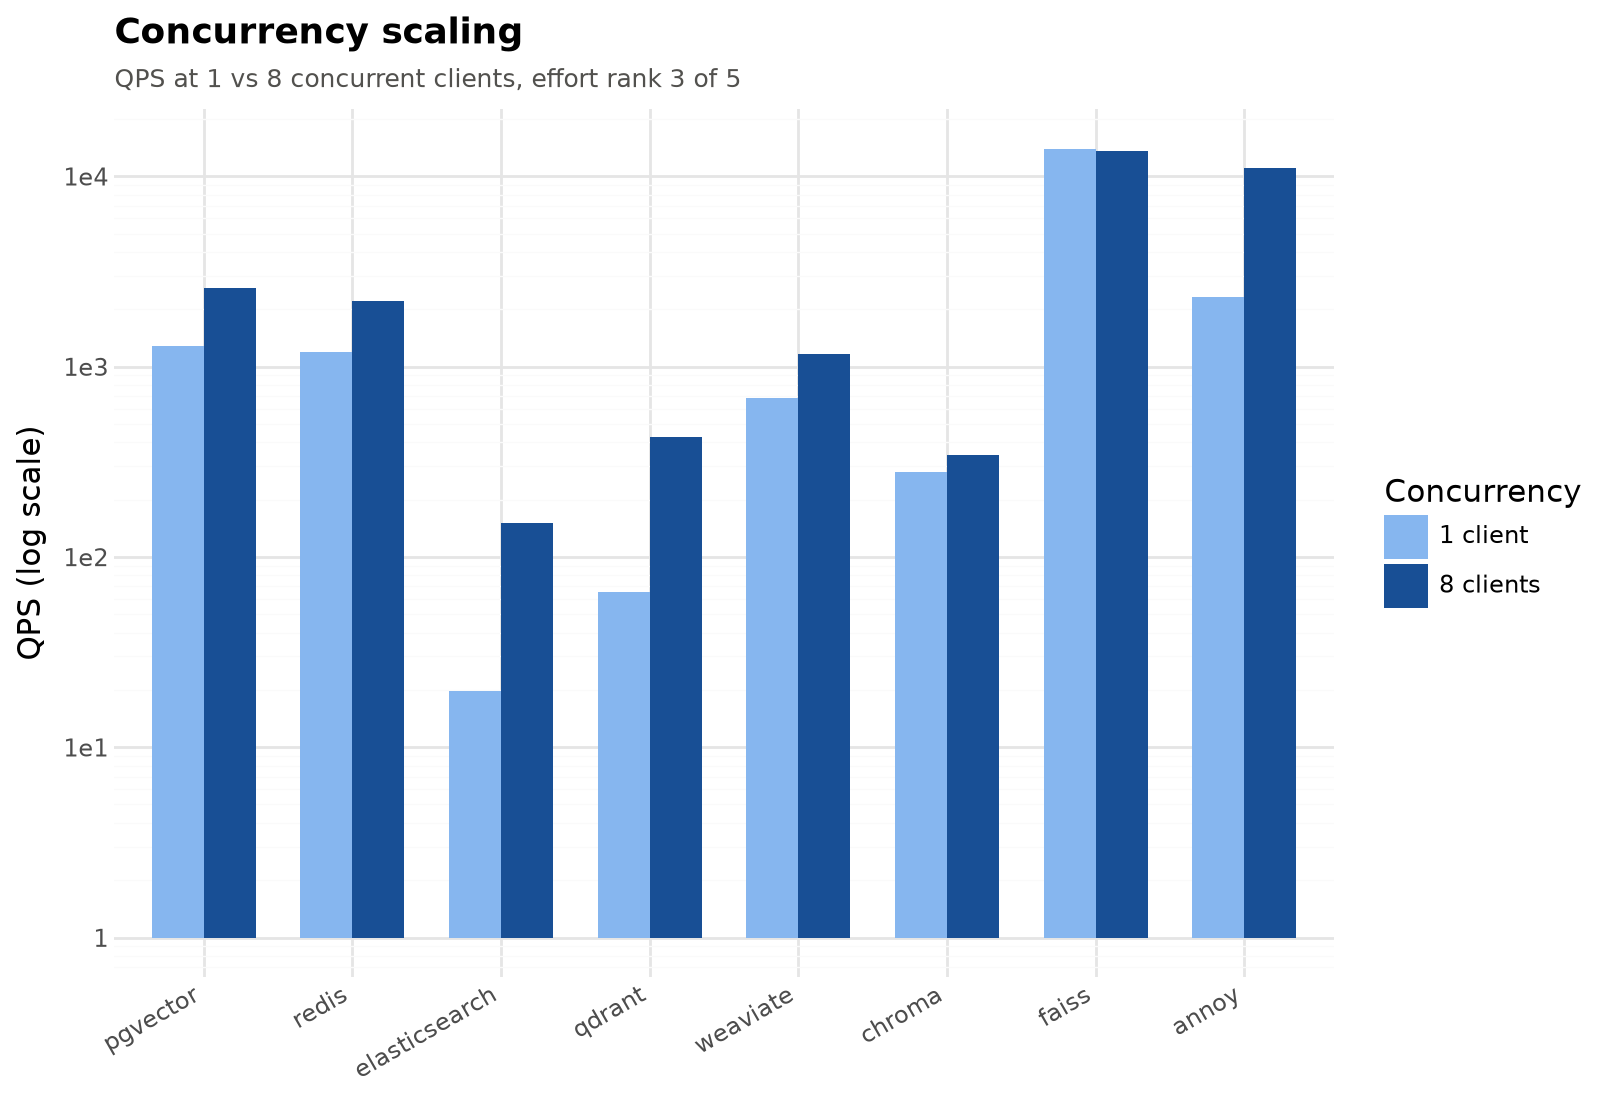
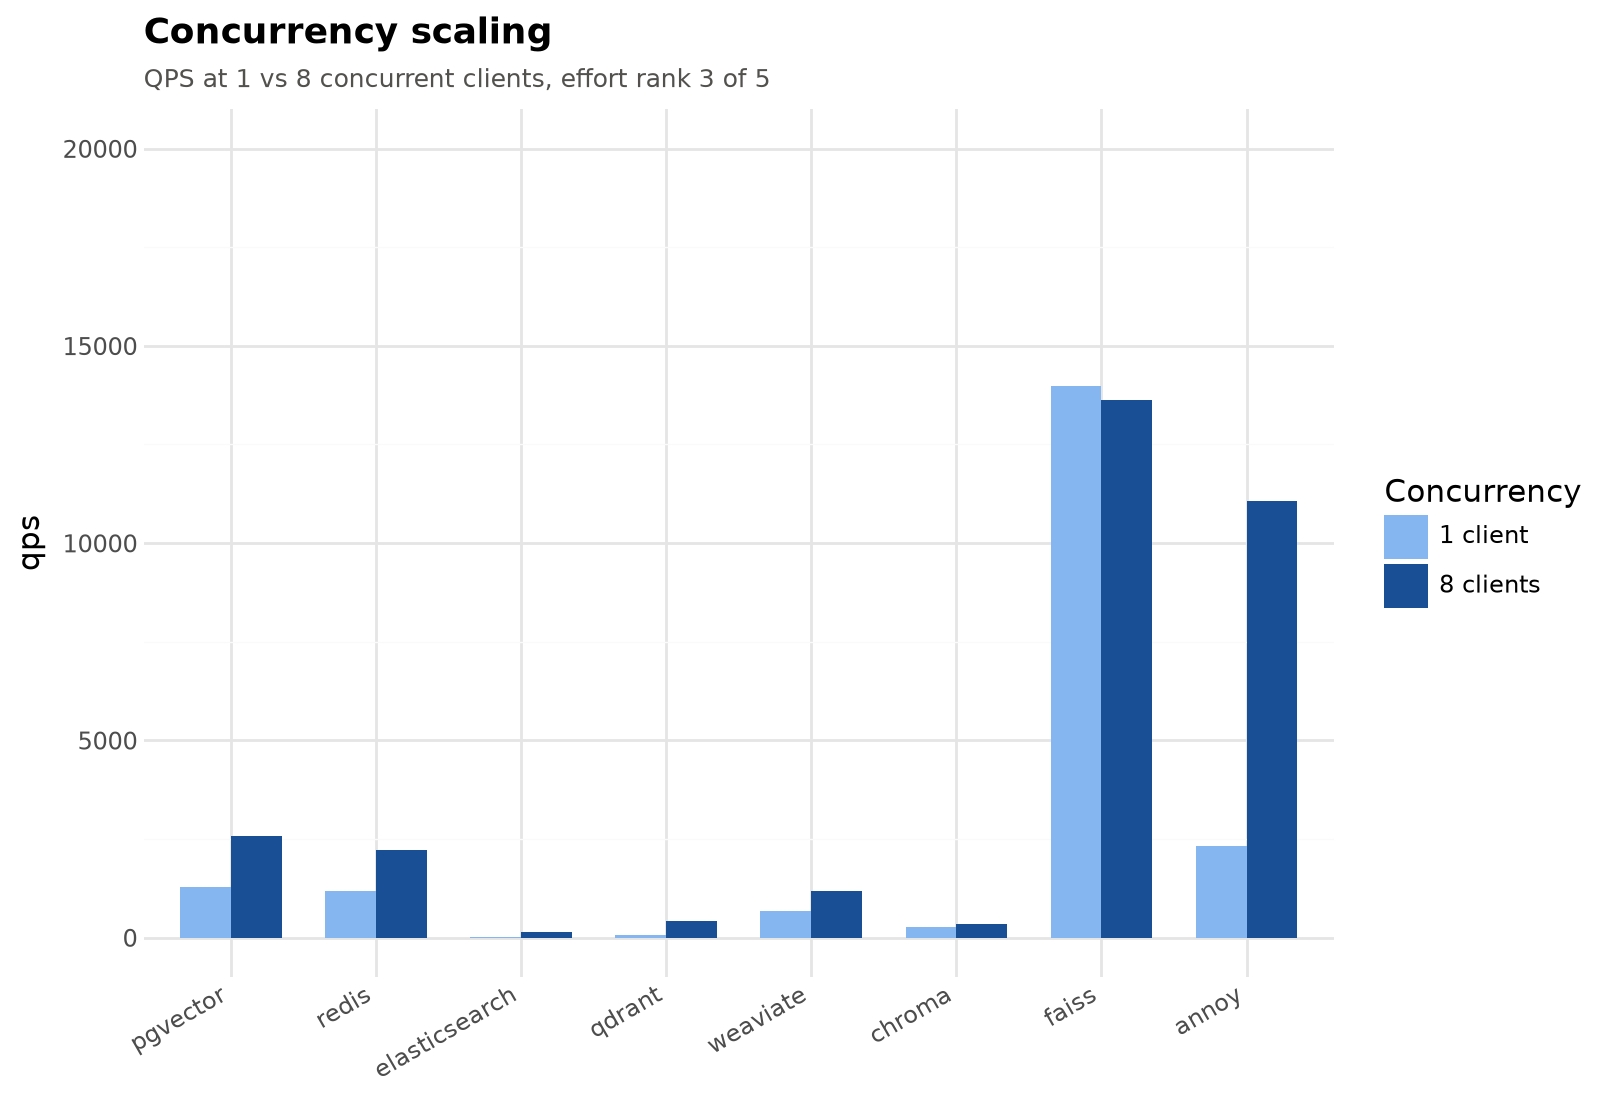
Fixes

diff --git a/scripts/06_visualize_results.py b/scripts/06_visualize_results.py
@@ -33,6 +33,7 @@ from plotnine import (
     scale_y_log10,
     theme,
     theme_minimal,
+    ylim,
 )
 
 ROOT = pathlib.Path(__file__).resolve().parent.parent
@@ -74,7 +75,9 @@ def plot_snapshot(df: pd.DataFrame) -> None:
     reader had a mental model of the recall/latency tradeoff.
     """
     mid_rank = int(df["sweep_rank"].median())
-    snap = df[df["sweep_rank"] == mid_rank][["engine", "recall_at_k", "p50_ms", "qps_c1"]].copy()
+    snap = df[df["sweep_rank"] == mid_rank][
+        ["engine", "recall_at_k", "p50_ms", "qps_c1"]
+    ].copy()
     long = snap.melt(id_vars="engine", var_name="metric", value_name="value")
 
     metric_labels = {
@@ -83,7 +86,9 @@ def plot_snapshot(df: pd.DataFrame) -> None:
         "qps_c1": "QPS (1 client)",
     }
     long["metric"] = pd.Categorical(
-        long["metric"].map(metric_labels), categories=list(metric_labels.values()), ordered=True
+        long["metric"].map(metric_labels),
+        categories=list(metric_labels.values()),
+        ordered=True,
     )
 
     p = (
@@ -98,7 +103,9 @@ def plot_snapshot(df: pd.DataFrame) -> None:
             y="",
         )
         + BASE_THEME
-        + theme(axis_text_x=element_text(rotation=40, ha="right"), figure_size=(10, 4.5))
+        + theme(
+            axis_text_x=element_text(rotation=40, ha="right"), figure_size=(10, 4.5)
+        )
     )
     p.save(PLOTS_DIR / "00_snapshot.png", dpi=200, verbose=False)
 
@@ -142,7 +149,10 @@ def plot_recall_by_effort_rank(df: pd.DataFrame) -> None:
         ggplot(df, aes(x="sweep_rank", y="recall_at_k", color="engine", group="engine"))
         + geom_line(size=0.8)
         + geom_point(size=2.3)
-        + scale_x_continuous(breaks=[1, 2, 3, 4, 5], name="search-effort rank (1=lowest, 5=highest, own sweep)")
+        + scale_x_continuous(
+            breaks=[1, 2, 3, 4, 5],
+            name="search-effort rank (1=lowest, 5=highest, own sweep)",
+        )
         + scale_color_manual(values=ENGINE_COLORS, limits=ENGINE_ORDER, name="Engine")
         + labs(
             title="Recall saturation by effort level",
@@ -155,13 +165,20 @@ def plot_recall_by_effort_rank(df: pd.DataFrame) -> None:
 
 
 def plot_build_cost(df: pd.DataFrame) -> None:
-    build_df = df.drop_duplicates("engine")[["engine", "build_time_s", "index_size_bytes"]].copy()
+    build_df = df.drop_duplicates("engine")[
+        ["engine", "build_time_s", "index_size_bytes"]
+    ].copy()
     build_df["index_size_mb"] = build_df["index_size_bytes"] / (1024 * 1024)
 
     p = (
-        ggplot(build_df, aes(x="index_size_mb", y="build_time_s", color="engine", label="engine"))
+        ggplot(
+            build_df,
+            aes(x="index_size_mb", y="build_time_s", color="engine", label="engine"),
+        )
         + geom_point(size=4)
-        + geom_text(nudge_y=0.06, size=9, ha="left", format_string=" {}", show_legend=False)
+        + geom_text(
+            nudge_y=0.06, size=9, ha="left", format_string=" {}", show_legend=False
+        )
         + scale_x_log10(name="on-disk index size, MB (log scale)")
         + scale_color_manual(values=ENGINE_COLORS, limits=ENGINE_ORDER)
         + labs(
@@ -179,15 +196,19 @@ def plot_concurrency_scaling(df: pd.DataFrame) -> None:
     mid_rank = int(df["sweep_rank"].median())
     mid = df[df["sweep_rank"] == mid_rank][["engine", "qps_c1", "qps_c8"]]
     long = mid.melt(id_vars="engine", var_name="concurrency", value_name="qps")
-    long["concurrency"] = long["concurrency"].map({"qps_c1": "1 client", "qps_c8": "8 clients"})
-    long["concurrency"] = pd.Categorical(long["concurrency"], categories=["1 client", "8 clients"], ordered=True)
+    long["concurrency"] = long["concurrency"].map(
+        {"qps_c1": "1 client", "qps_c8": "8 clients"}
+    )
+    long["concurrency"] = pd.Categorical(
+        long["concurrency"], categories=["1 client", "8 clients"], ordered=True
+    )
 
     # Concurrency is an ordinal progression (low->high), not a categorical identity, so it gets
     # a single sequential hue stepped light->dark rather than two arbitrary categorical colors.
     p = (
         ggplot(long, aes(x="engine", y="qps", fill="concurrency"))
         + geom_col(position="dodge", width=0.7)
-        + scale_y_log10(name="QPS (log scale)")
+        + ylim(0, 20000)
         + scale_fill_manual(values=["#86b6ef", "#184f95"], name="Concurrency")
         + labs(
             title="Concurrency scaling",

diff --git a/README.md b/README.md
@@ -1,0 +1,37 @@
+# Vector Search Benchmark
+
+A small, hands-on comparison of 8 vector search engines (pgvector, Redis Stack, Elasticsearch, Qdrant, Weaviate, Chroma, FAISS, Annoy) under the same conditions: same embeddings, same hardware, same metrics.
+
+## Folder Structure
+
+- `scripts/` : dataset prep, embedding generation, ground truth, the benchmark runner, result
+  aggregation and plots
+- `engines/<name>/` : one adapter plus a `docker-compose.yml` per engine (FAISS and Annoy have no
+  compose file, they're libraries and run in-process)
+- `benchmark/common/` : the shared adapter interface and runner that every engine plugs into
+- `results/` : one JSON per run, a combined `summary.csv`, and plots under `results/plots/`
+
+## Requirements
+
+- Docker
+- Python 3.10+
+- Ollama, with `nomic-embed-text` pulled
+
+## Running it
+
+Each engine is independent and can be run on its own, no need to spin everything up at once.
+
+```bash
+pip install -r requirements.txt
+python scripts/01_prepare_dataset.py
+python scripts/02_generate_embeddings.py
+python scripts/03_compute_ground_truth.py
+python scripts/04_run_benchmark.py --engine pgvector
+python scripts/04_run_benchmark.py --engine redis
+python scripts/04_run_benchmark.py --engine elasticsearch
+python scripts/04_run_benchmark.py --engine qdrant
+python scripts/04_run_benchmark.py --engine weaviate
+python scripts/04_run_benchmark.py --engine chroma
+python scripts/04_run_benchmark.py --engine faiss
+python scripts/04_run_benchmark.py --engine annoy
+```
